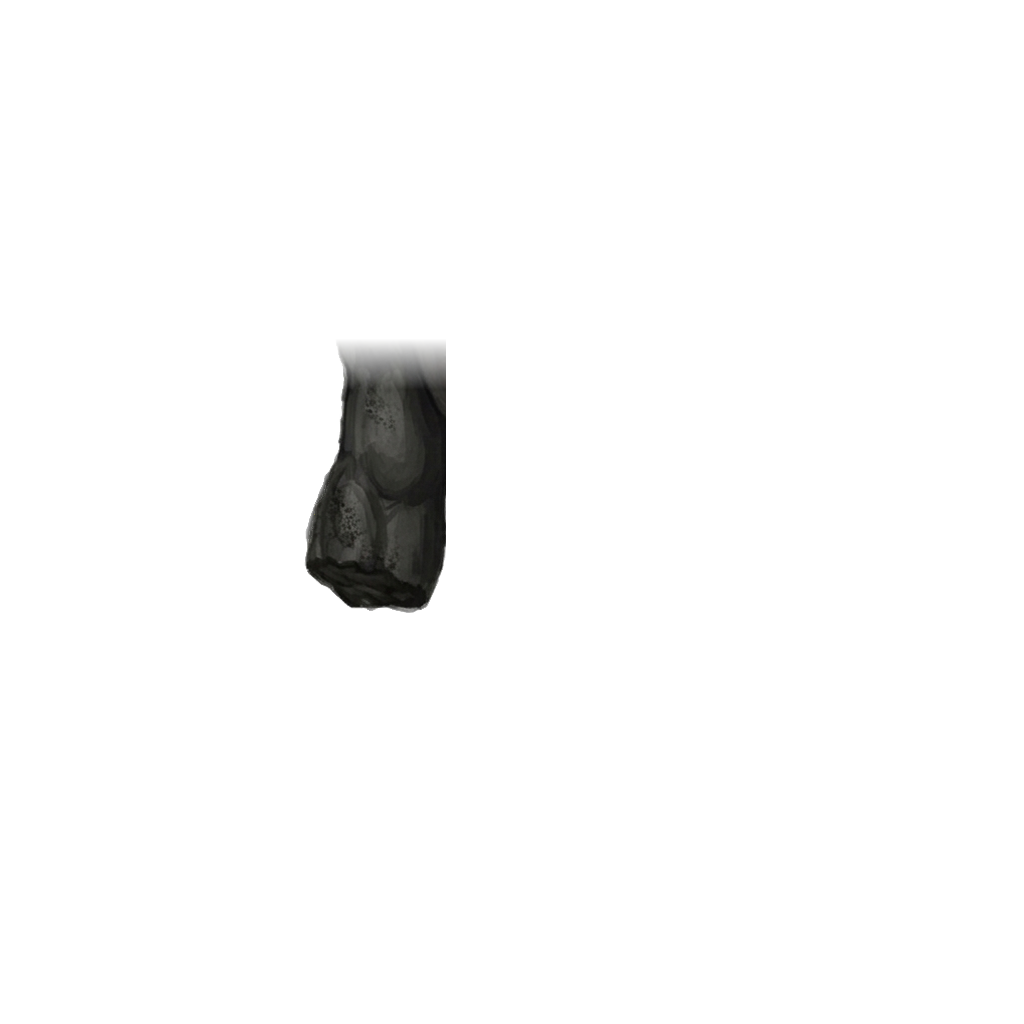
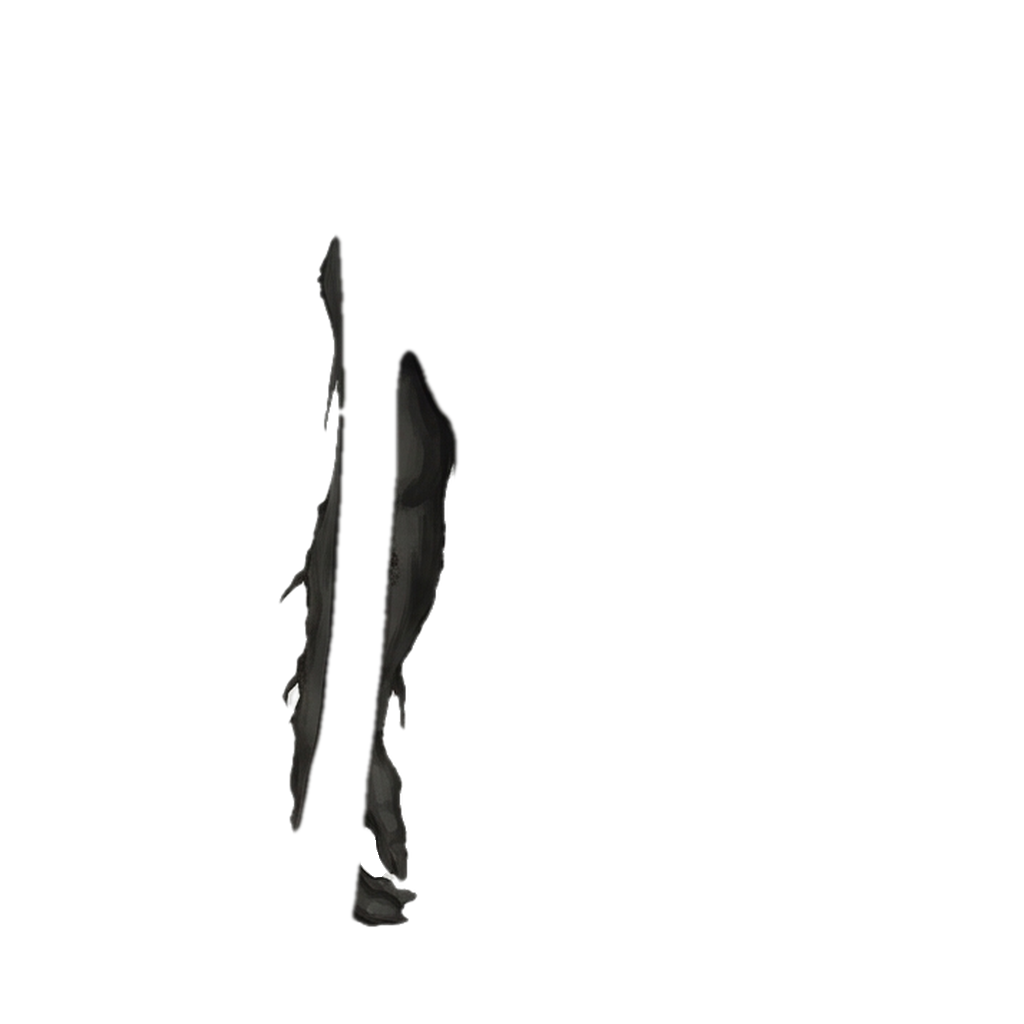
The Viy cut anew from a colour mask: both arms off the body, the right one whole, the left as much as shows between the hair; lobby hints open under their line and work at all (a text took no pointer)

Changed region(s): [[0.2812, 0.2188, 0.4375, 0.9062], [0.4375, 0.4062, 0.4688, 0.4688]]

diff --git a/crates/game/src/lobby.rs b/crates/game/src/lobby.rs
@@ -409,19 +409,22 @@ fn draw_lobby(
                     let next = if opens > 0 { format!("{next}
 {}", l10n.tf("lobby-level-opens", &[("n", ((level + 1) as i32).into()), ("k", (opens as i32).into())])) } else { next };
                     p.spawn(theme::text(l10n.n("lobby-hp", def.max_hp), &fonts.num, 26.0, theme::CANDLE));
+                    // a text takes no pointer (see `theme::text`): the hover is the box round it
                     p.spawn((
-                        theme::text(format!("{} (?)", l10n.n("lobby-level", level as i32)), &fonts.num, 26.0, theme::CANDLE),
+                        Node::default(),
                         bevy::picking::hover::Hovered::default(),
-                        crate::run_ui::CardHints::new(vec![(l10n.n("lobby-level", level as i32), format!("{}
+                        crate::run_ui::CardHints::below(vec![(l10n.n("lobby-level", level as i32), format!("{}
 
 {next}", l10n.t("lobby-level-help")))]),
-                    ));
+                    ))
+                    .with_child(theme::text(format!("{} (?)", l10n.n("lobby-level", level as i32)), &fonts.num, 26.0, theme::CANDLE));
                     // what the hero's own mechanic does, told on hover: nothing else says it before a fight
                     p.spawn((
-                        theme::text(format!("{} (?)", l10n.t(&format!("hero-{hero}-desc"))), &fonts.body, 22.0, theme::BONE),
+                        Node::default(),
                         bevy::picking::hover::Hovered::default(),
-                        crate::run_ui::CardHints::new(vec![(l10n.t(&format!("mech-{:?}-name", def.mechanic)), l10n.t(&format!("mech-{:?}", def.mechanic)))]),
-                    ));
+                        crate::run_ui::CardHints::below(vec![(l10n.t(&format!("mech-{:?}-name", def.mechanic)), l10n.t(&format!("mech-{:?}", def.mechanic)))]),
+                    ))
+                    .with_child(theme::text(format!("{} (?)", l10n.t(&format!("hero-{hero}-desc"))), &fonts.body, 22.0, theme::BONE));
                     p.spawn((theme::text(l10n.t("lobby-relic"), &fonts.body, 18.0, theme::DIM), Node { margin: UiRect::top(px(6)), ..default() }));
                     // the shrine lets a hero start with another relic: each choice is a button
                     let shrine = profile.building("shrine").min(2) as usize;

diff --git a/crates/game/src/run_ui.rs b/crates/game/src/run_ui.rs
@@ -43,11 +43,18 @@ pub fn plugin(app: &mut App) {
 pub struct CardHints {
     pub lines: Vec<(String, String)>,
     pub open: Option<Entity>,
+    /// The panel opens under the thing hovered, not beside it: for wide lines of text, whose
+    /// right side is near the screen's edge.
+    pub below: bool,
 }
 
 impl CardHints {
     pub fn new(lines: Vec<(String, String)>) -> CardHints {
-        CardHints { lines, open: None }
+        CardHints { lines, open: None, below: false }
+    }
+
+    pub fn below(lines: Vec<(String, String)>) -> CardHints {
+        CardHints { lines, open: None, below: true }
     }
 }
 
@@ -62,10 +69,10 @@ fn explain_cards(mut commands: Commands, mut cards: Query<(Entity, &mut CardHint
                     .spawn((
                         theme::panel(Node {
                             position_type: PositionType::Absolute,
-                            left: percent(100),
-                            top: px(0),
-                            margin: UiRect::left(px(14.0 * k)),
-                            width: px(320.0 * k),
+                            left: if hints.below { px(0) } else { percent(100) },
+                            top: if hints.below { percent(100) } else { px(0) },
+                            margin: if hints.below { UiRect::top(px(10.0 * k)) } else { UiRect::left(px(14.0 * k)) },
+                            width: px(if hints.below { 560.0 } else { 320.0 } * k),
                             padding: UiRect::all(px(12.0 * k)),
                             border: UiRect::all(px(2.0 * k)),
                             flex_direction: FlexDirection::Column,

diff --git a/crates/game/src/battle/rig.rs b/crates/game/src/battle/rig.rs
@@ -86,8 +86,9 @@ const FIGURES: &[(&str, &[Cut])] = &[
     ("enemies/vodyanoy", &[(Part::Head, Vec2::new(0.492, 0.31), 1.0), (Part::Shield, Vec2::new(0.703, 0.365), 0.8), (Part::Arm, Vec2::new(0.332, 0.388), 1.0)]),
     ("enemies/chuchelo", &[(Part::Head, Vec2::new(0.51, 0.2), 0.8), (Part::Shield, Vec2::new(0.68, 0.431), 0.7), (Part::Arm, Vec2::new(0.311, 0.431), 0.7)]),
     ("enemies/verlioka", &[(Part::Head, Vec2::new(0.44, 0.253), 1.0), (Part::Shield, Vec2::new(0.733, 0.359), 0.8), (Part::Arm, Vec2::new(0.308, 0.3), 0.5)]),
-    // the left arm hung hidden behind the hair, and the Viy looked one-armed: it is laid over it
-    ("enemies/viy", &[(Part::Head, Vec2::new(0.42, 0.2), 0.4), (Part::Shield, Vec2::new(0.37, 0.25), 0.3), (Part::Arm, Vec2::new(0.845, 0.422), 1.0)]),
+    // cut anew from a colour mask: both arms off the body, the left one (behind the hair) painted
+    // whole, so it is there when the head and its hair are struck off
+    ("enemies/viy", &[(Part::Shield, Vec2::new(0.33, 0.25), 0.6), (Part::Head, Vec2::new(0.42, 0.2), 0.4), (Part::Arm, Vec2::new(0.72, 0.2), 1.0)]),
     ("heroes/znaharka", &[(Part::Shield, Vec2::new(0.40, 0.40), 0.7), (Part::Head, Vec2::new(0.61, 0.20), 0.9), (Part::Arm, Vec2::new(0.73, 0.40), -0.6)]),
     // the "shield" is his chimney, which only rocks; the arm holds the bucket and the pike
     ("heroes/emelya", &[(Part::Shield, Vec2::new(0.30, 0.30), 0.35), (Part::Head, Vec2::new(0.445, 0.30), 0.9), (Part::Arm, Vec2::new(0.62, 0.27), 0.8)]),
